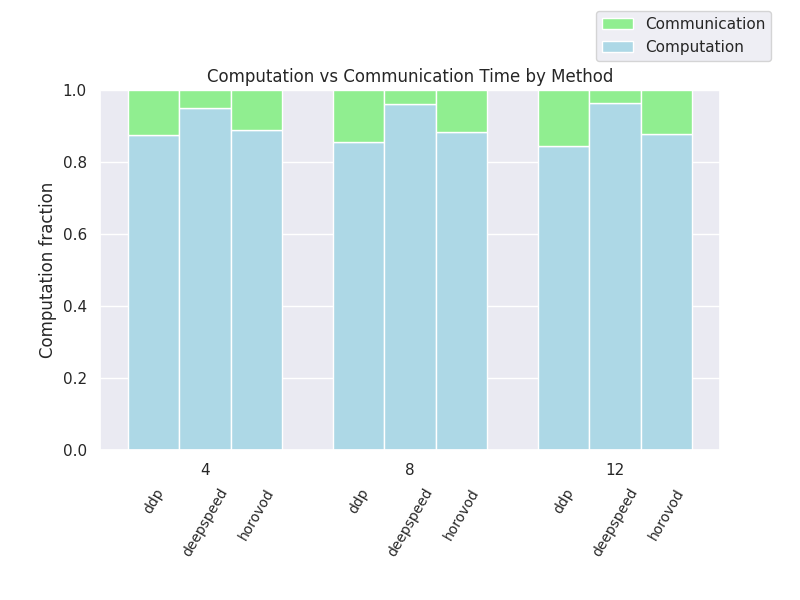
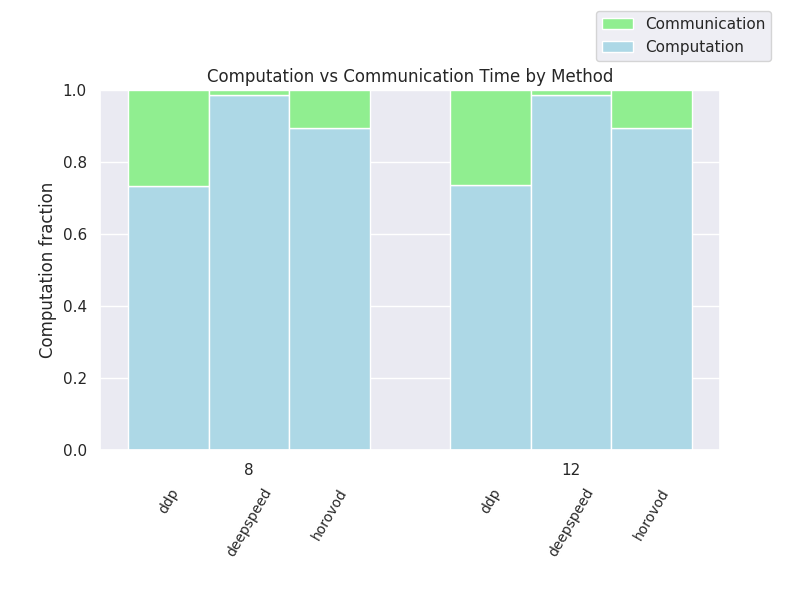
add scheduler to profiler

diff --git a/scaling-test/generate_comm_plot.py b/scaling-test/generate_comm_plot.py
@@ -46,7 +46,7 @@ def create_combined_comm_overhead_df(logs_dir: Path, pattern: str) -> pd.DataFra
     return df
 
 
-def get_comp_fraction_full_array(df: pd.DataFrame) -> np.ndarray:
+def get_comp_fraction_full_array(df: pd.DataFrame, print_table: bool = False) -> np.ndarray:
     """Creates a MxN NumPy array where M is the number of strategies
     and N is the number of GPU configurations. The strategies are sorted
     alphabetically and the GPU configurations are sorted in ascending number
@@ -56,34 +56,41 @@ def get_comp_fraction_full_array(df: pd.DataFrame) -> np.ndarray:
     unique_strategies = sorted(df["strategy"].unique())
     values = []
 
-    print(f"{'-'*50}")
-    print(f"{'Strategy':>12} | {'Num. GPUs':>10} | {'Comp.':>9} | {'Comm.':>8}")
-    print(f"{'-'*50}")
+    table_string = ""
+
     for strategy in unique_strategies:
         strategy_values = []
         for num_gpus in unique_num_gpus:
             filtered_df = df[
                 (df["strategy"] == strategy) & (df["num_gpus"] == num_gpus)
             ]
-            log_string = f"{strategy:>12} | {num_gpus:>10}"
+            row_string = f"{strategy:>12} | {num_gpus:>10}"
 
-            # Don't need to test all configurations, still want to print it 
+            # Allows asymmetric testing, i.e. not testing all num gpus and all 
+            # strategies together
             if len(filtered_df) == 0: 
                 comp_time, comm_time = np.NaN, np.NaN
                 strategy_values.append(np.NaN)
 
-                log_string += f" | {'(NO DATA)':>15}"
+                row_string += f" | {'(NO DATA)':>15}"
             else: 
                 comp_time, comm_time = calculate_comp_and_comm_time(df=filtered_df)
-                comp_fraction = comp_time / (comp_time + comm_time)
+                # Avoid division-by-zero errors (1e-10)
+                comp_fraction = comp_time / (comp_time + comm_time + 1e-10)
                 strategy_values.append(comp_fraction)
 
-                log_string += f" | {comp_time:>8.2f}s"
-                log_string += f" | {comm_time:>8.2f}s"
+                row_string += f" | {comp_time:>8.2f}s"
+                row_string += f" | {comm_time:>8.2f}s"
 
-            print(log_string)
+            table_string += row_string + "\n"
         values.append(strategy_values)
-    print(f"{'-'*50}")
+
+    if print_table:
+        print(f"{'-'*50}")
+        print(f"{'Strategy':>12} | {'Num. GPUs':>10} | {'Comp.':>9} | {'Comm.':>8}")
+        print(f"{'-'*50}")
+        print(table_string)
+        print(f"{'-'*50}")
 
     return np.array(values)
 
@@ -103,7 +110,7 @@ def main():
 
     pattern = r"profile_(\w+)_(\d+)_(\d+)\.csv$"
     df = create_combined_comm_overhead_df(logs_dir=logs_dir, pattern=pattern)
-    values = get_comp_fraction_full_array(df)
+    values = get_comp_fraction_full_array(df, print_table=True)
 
     strategies = df["strategy"].unique()
     gpu_numbers = sorted(df["num_gpus"].unique(), key=lambda x: int(x))

diff --git a/src/itwinai/components.py b/src/itwinai/components.py
@@ -206,8 +206,7 @@ def profile_torch_trainer(method: Callable) -> Callable:
     vs. computation time and stores the result for future analysis. 
     """
 
-    from torch.profiler import ProfilerActivity, profile
-
+    from torch.profiler import ProfilerActivity, profile, schedule
     from itwinai.torch.trainer import TorchTrainer
 
     def gather_profiling_data(key_averages: Iterable) -> pd.DataFrame: 
@@ -236,9 +235,16 @@ def profile_torch_trainer(method: Callable) -> Callable:
         profiler = profile(
             activities=[ProfilerActivity.CUDA, ProfilerActivity.CPU],
             with_modules=True,
+            schedule=schedule(
+                # skip_first=1
+                wait=1,
+                warmup=2,
+                active=100
+            ),
         )
         profiler.start()
         # TODO: Make sure this doesn't clean up the strategy
+        self.profiler = profiler
         try: 
             result = method(self, *args, **kwargs)
         finally: 
@@ -265,7 +271,7 @@ def profile_torch_trainer(method: Callable) -> Callable:
         profiling_log_dir = Path("profiling_logs")
         profiling_log_dir.mkdir(parents=True, exist_ok=True)
 
-        filename: str = f"profile_{strategy_str}_{global_size}_{global_rank}.csv"
+        filename = f"profile_{strategy_str}_{global_size}_{global_rank}.csv"
         output_path = profiling_log_dir / filename
 
         print(f"Writing profiling dataframe to {output_path}")

diff --git a/use-cases/eurac/trainer.py b/use-cases/eurac/trainer.py
@@ -88,7 +88,6 @@ class RNNDistributedTrainer(TorchTrainer):
             **kwargs,
         )
         self.save_parameters(**self.locals2params(locals()))
-        # self.execute = types.MethodType(profile_torch_trainer(self.execute), self)
 
 
     @profile_torch_trainer
@@ -137,6 +136,14 @@ class RNNDistributedTrainer(TorchTrainer):
             **distribute_kwargs,
         )
 
+    def set_epoch(self, epoch: int): 
+        if self.profiler is not None: 
+            self.profiler.step()
+
+        if self.strategy.is_distributed:
+            self.train_loader.sampler.set_epoch(epoch)
+            self.val_loader.sampler.set_epoch(epoch)
+
     def train(self):
         """Override version of hython to support distributed strategy."""
         # Tracking epoch times for scaling test
@@ -170,10 +177,7 @@ class RNNDistributedTrainer(TorchTrainer):
         best_loss = float("inf")
         for epoch in tqdm(range(self.epochs)):
             epoch_start_time = timer()
-            if self.strategy.is_distributed:
-                # *Added for distributed*
-                self.train_loader.sampler.set_epoch(epoch)
-                self.val_loader.sampler.set_epoch(epoch)
+            self.set_epoch(epoch)
 
             self.model.train()
 

diff --git a/src/itwinai/torch/trainer.py b/src/itwinai/torch/trainer.py
@@ -134,6 +134,7 @@ class TorchTrainer(Trainer, LogMixin):
         self.checkpoints_location = checkpoints_location
         os.makedirs(self.checkpoints_location, exist_ok=True)
         self.checkpoint_every = checkpoint_every
+        self.profiler = None
 
     @property
     def strategy(self) -> TorchDistributedStrategy:
@@ -392,6 +393,8 @@ class TorchTrainer(Trainer, LogMixin):
         Args:
             epoch (int): epoch number, from 0 to ``epochs-1``.
         """
+        if self.profiler is not None: 
+            self.profiler.step()
         self._set_epoch_dataloaders(epoch)
 
     def log(
